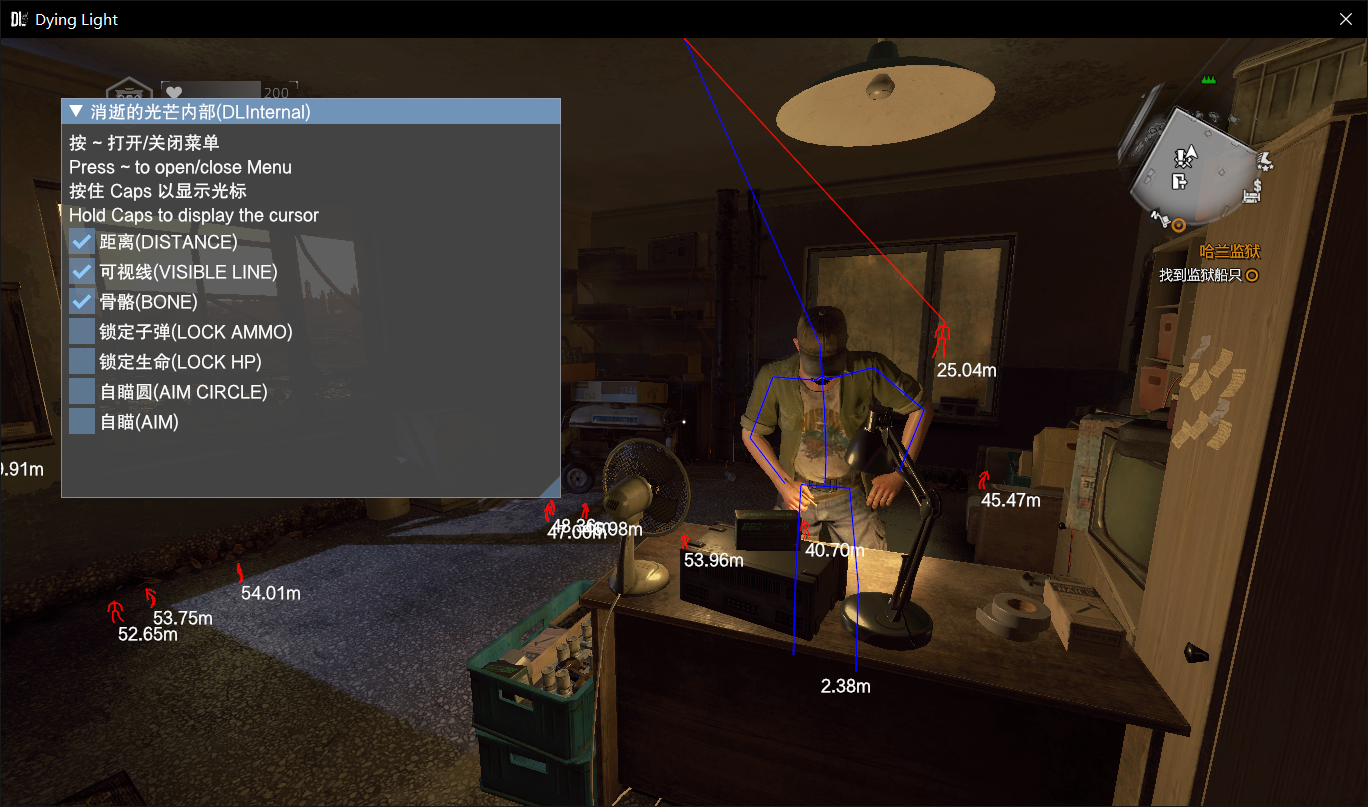
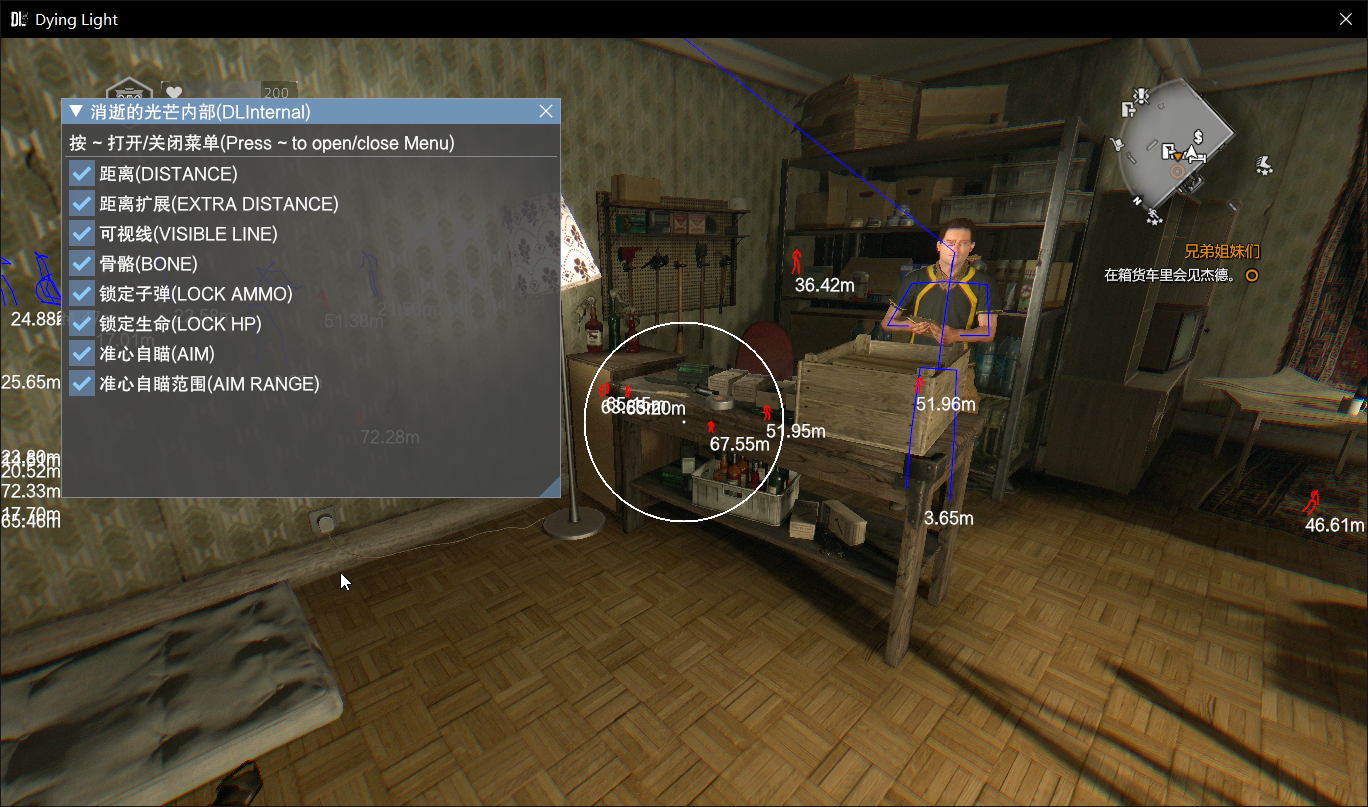
升级依赖

diff --git a/README.md b/README.md
@@ -2,8 +2,6 @@
 
 ![menu](res/menu.png)
 
-![hack](res/hack.png)
-
 ## 下载/Download
 
 https://github.com/vSylva/dying_light_hack/releases
@@ -11,6 +9,8 @@ https://github.com/vSylva/dying_light_hack/releases
 ## 使用方式
 
 用 dll 注入工具将 dll 注入游戏进程
+
+注意自瞄不完善
 
 ## 编译/Compile
 
